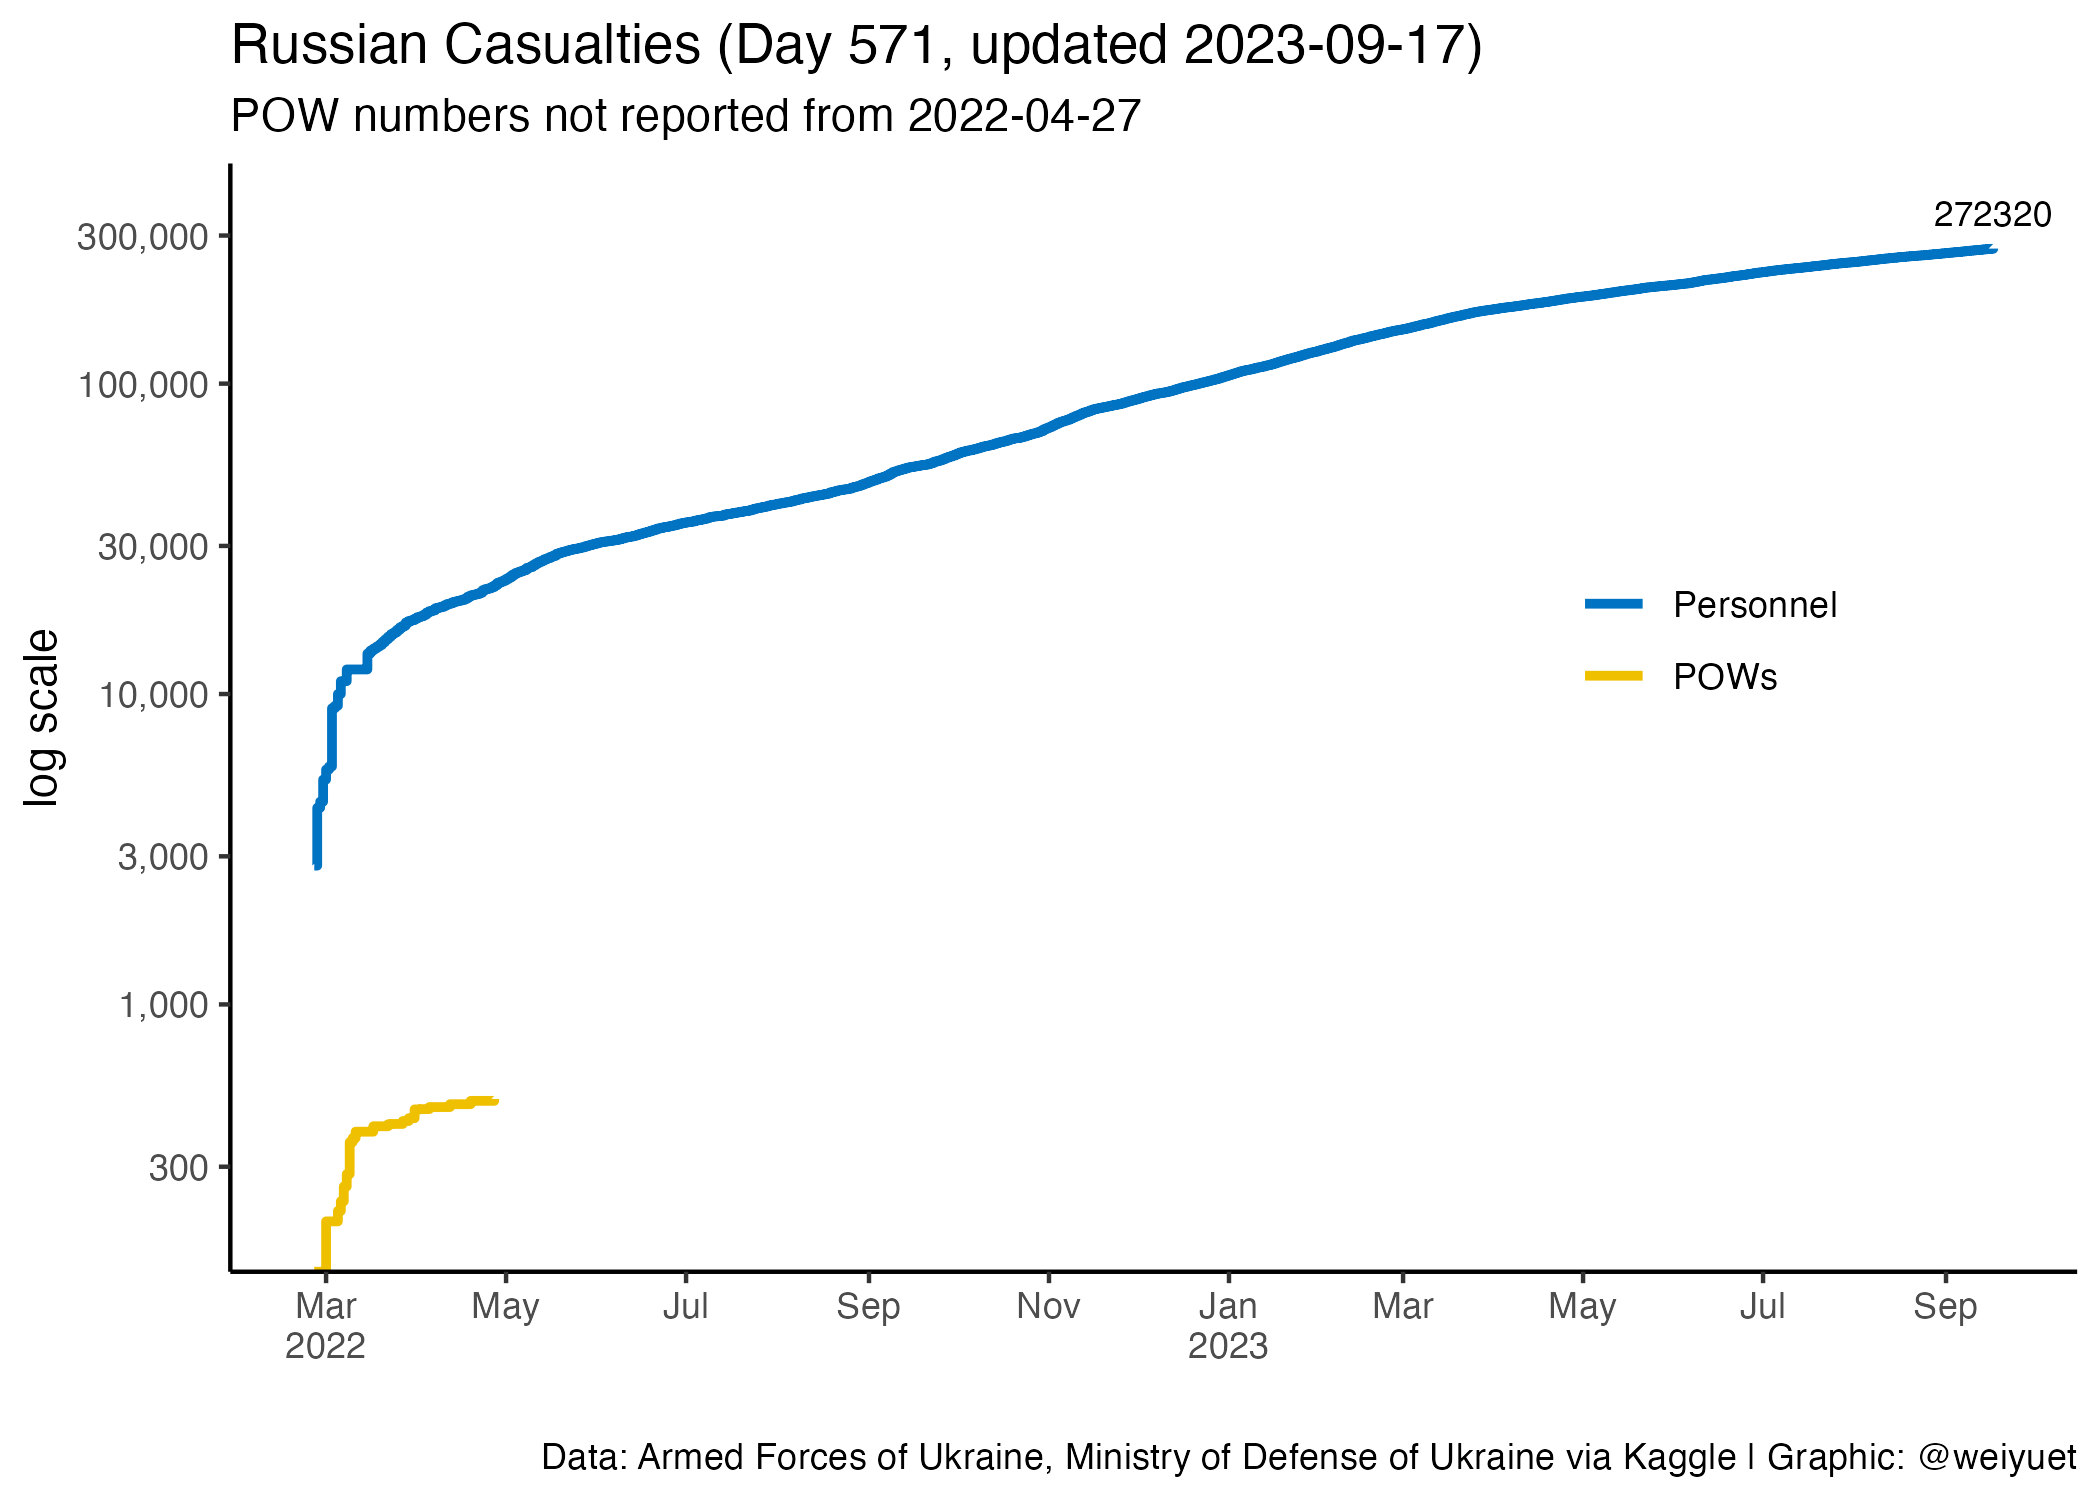
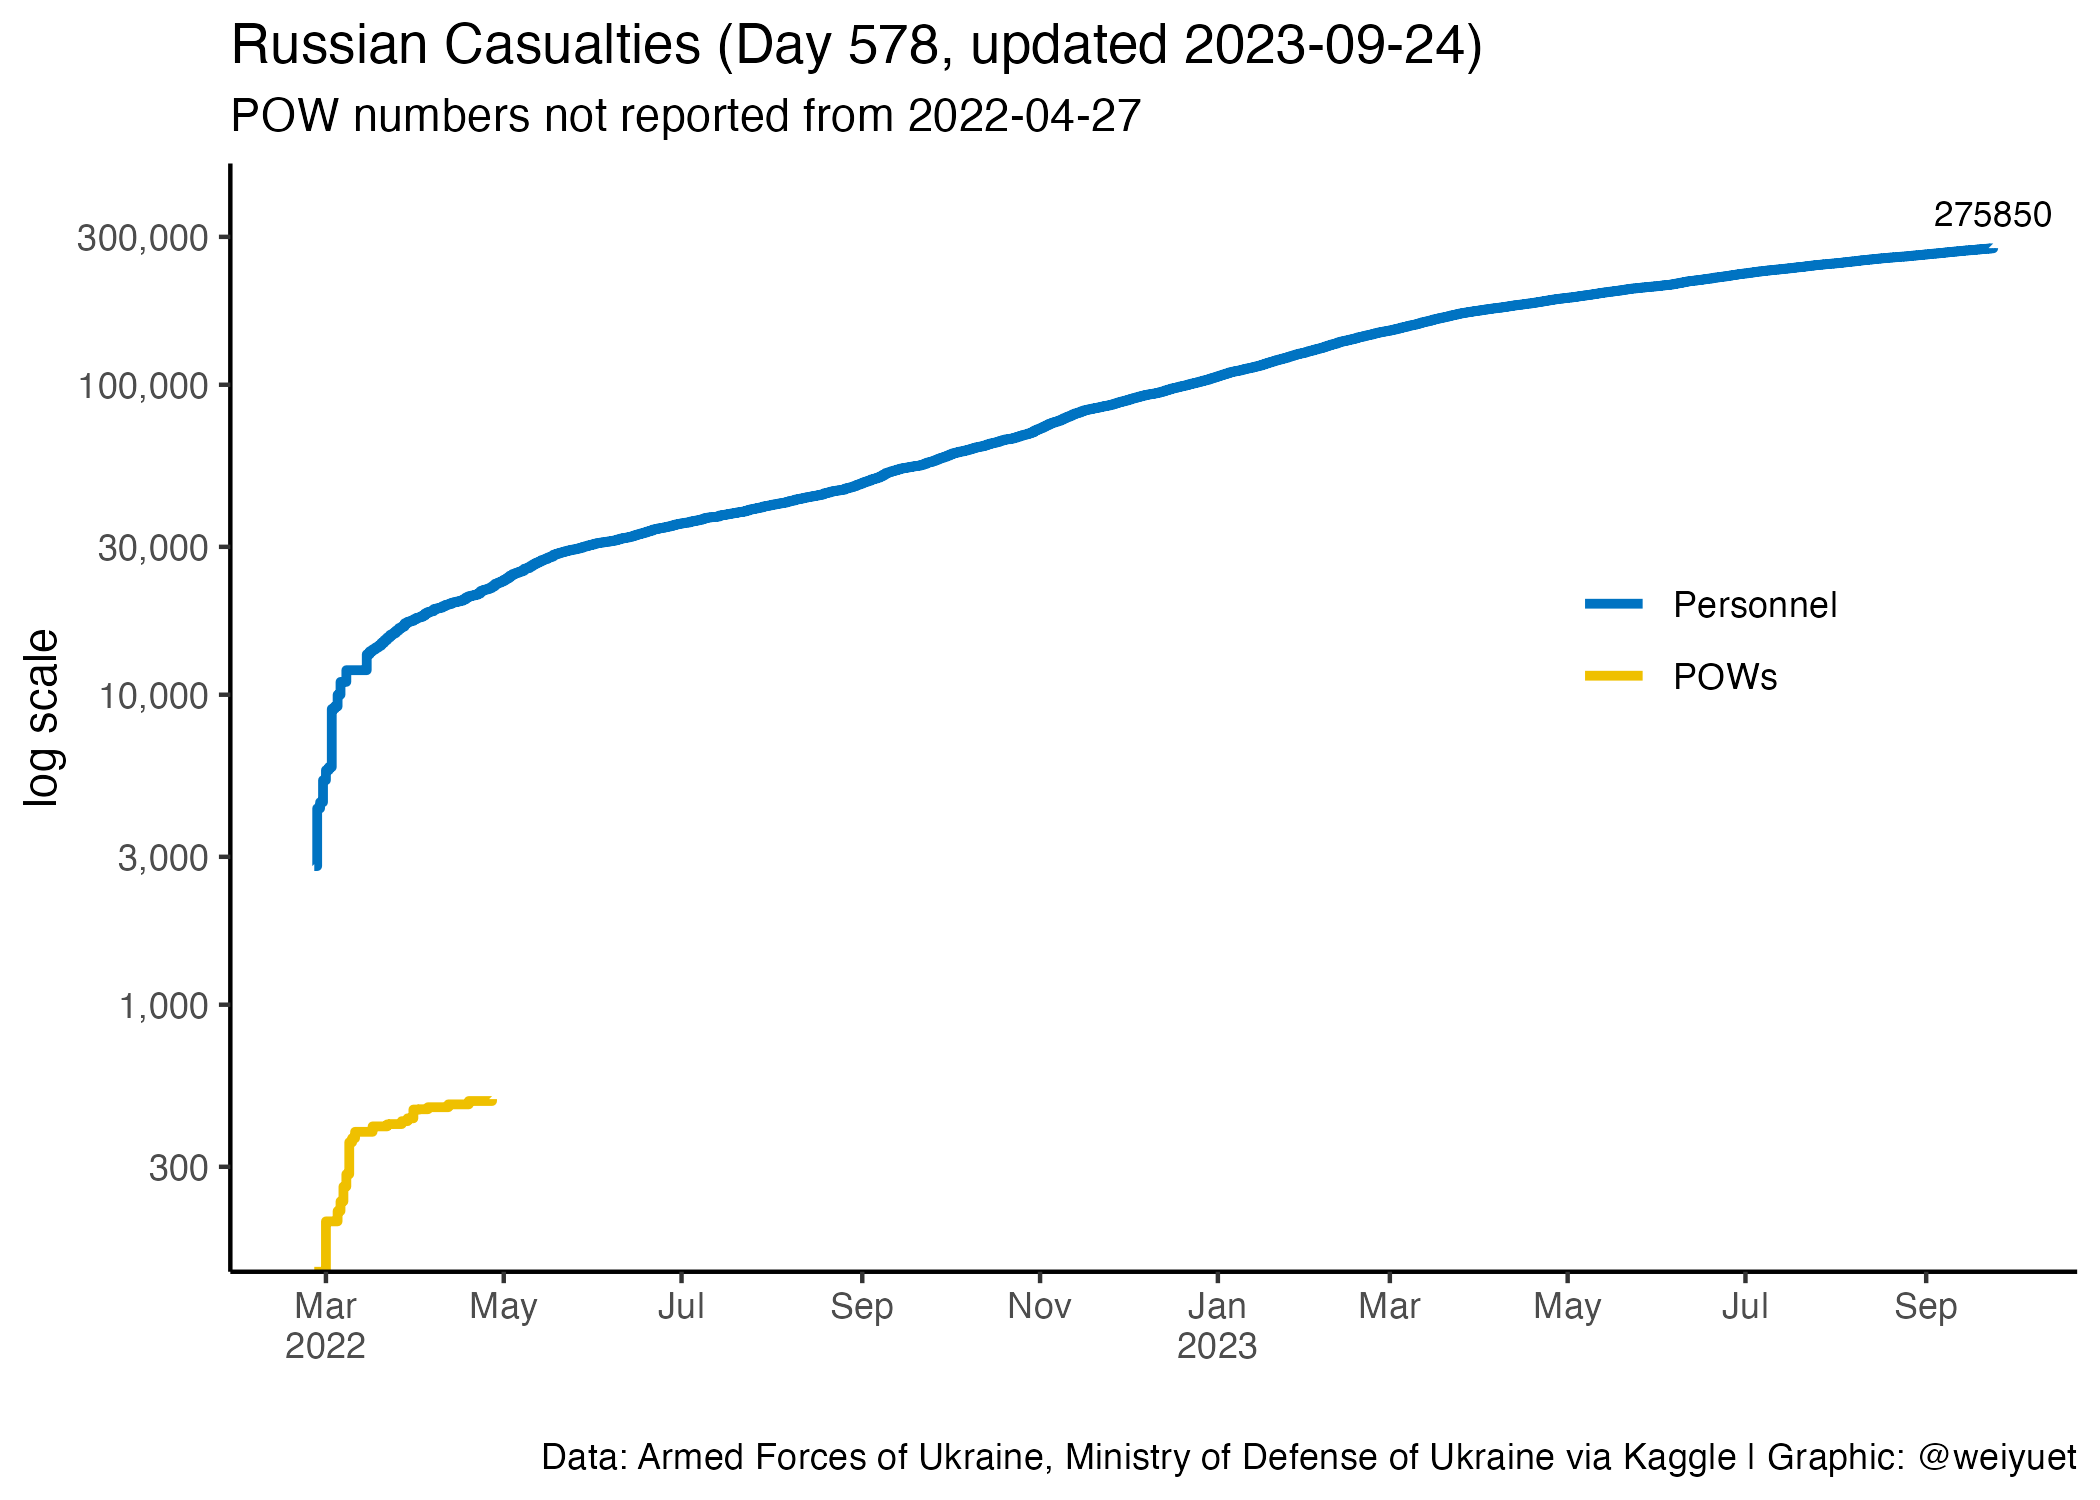
Updated 28 September

diff --git a/README.md b/README.md
@@ -6,7 +6,7 @@ Wong Wei Yuet 2022-05-26
 
   - War casualty data updated daily from [`Petro Ivanyuk's Kaggle`](https://www.kaggle.com/datasets/piterfm/2022-ukraine-russian-war). All data is official and put together by `Petro`
 
-Updated: 2023-09-17
+Updated: 2023-09-28
 
 ## Summary of Conflict
 
